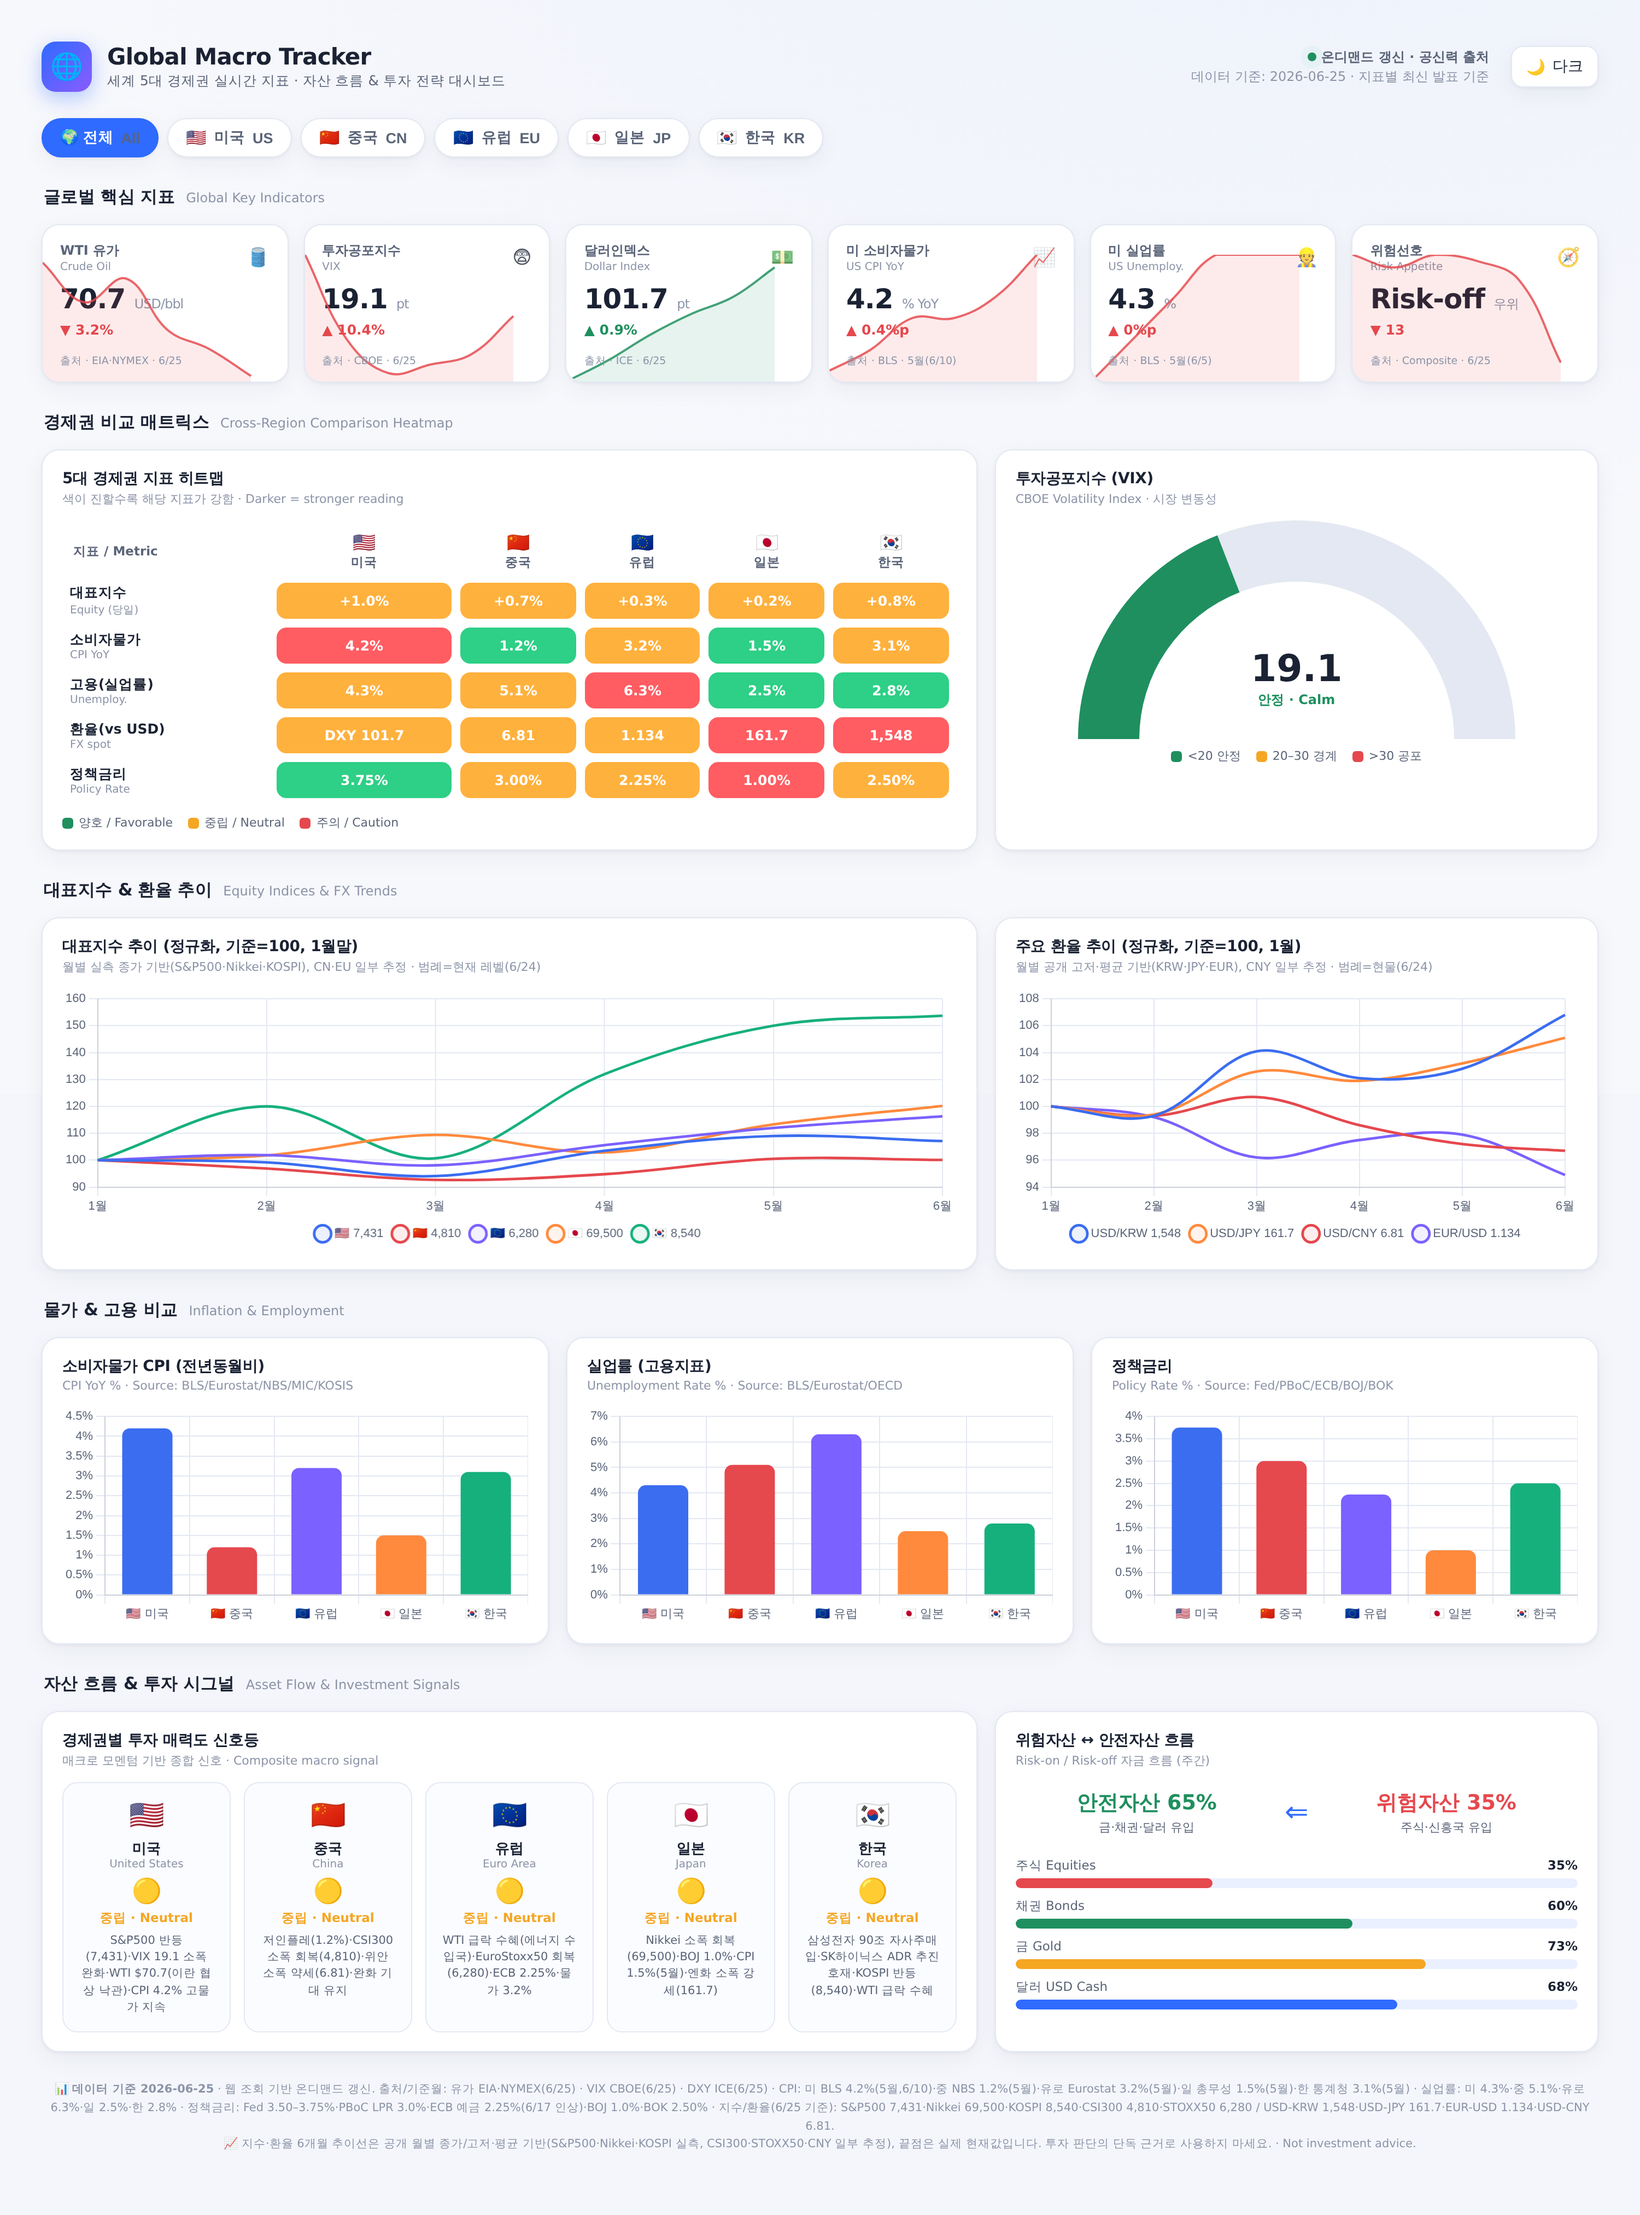
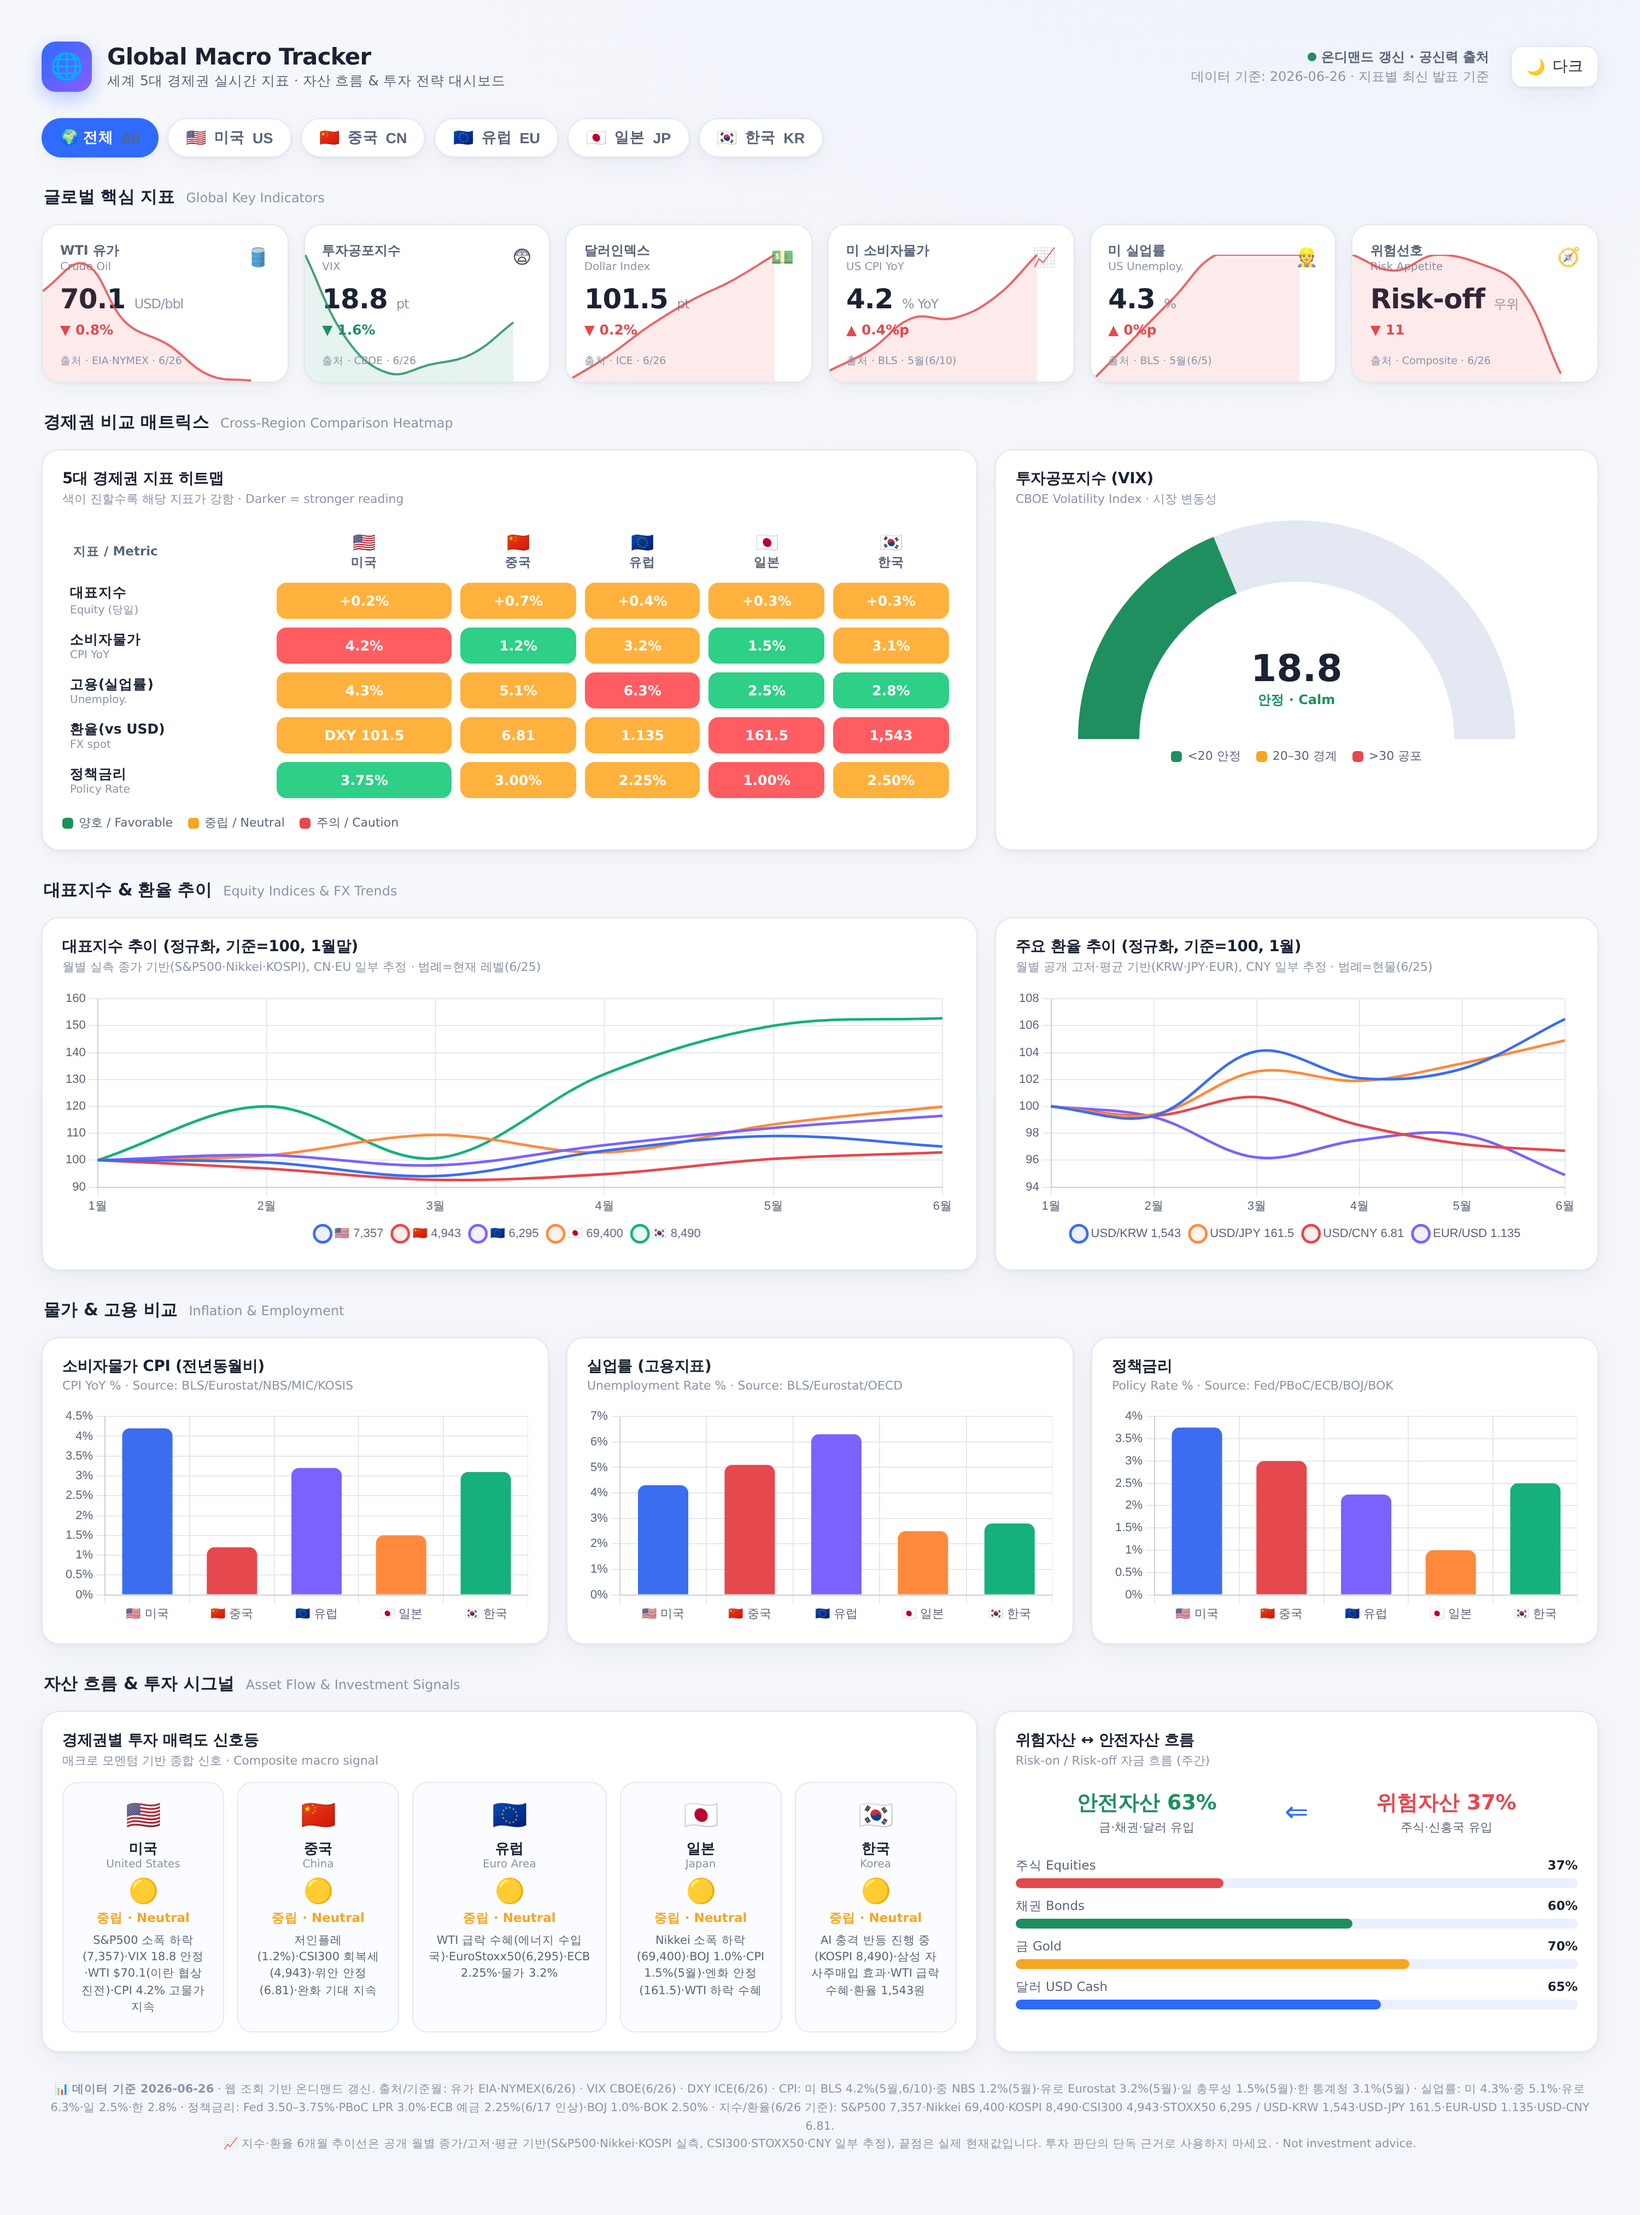
dashboard: 2026-06-26 데이터 갱신 및 이미지 재렌더링
- WTI $70.1(-0.8%), VIX 18.8(-1.6%), DXY 101.5(-0.2%)
- S&P500 7,357 / Nikkei 69,400 / KOSPI 8,490 / CSI300 4,943 / STOXX50 6,295
- USD/KRW 1,543 · USD/JPY 161.5 · EUR/USD 1.135 · USD/CNY 6.81
- 이란 협상 진전으로 WTI 지속 하락, Mag7 가격인상 우려로 S&P 소폭 약세
- 콘솔 에러 0 확인 후 mockup-dark/light.png 재산출

Claude-Session: https://claude.ai/code/session_01TfGNGWpgkPWsRGVKtzUyAZ

diff --git a/index.html b/index.html
@@ -213,7 +213,7 @@
     <div class="spacer"></div>
     <div class="updated">
       <div><span class="live-dot"></span><b>온디맨드 갱신 · 공신력 출처</b></div>
-      <div id="updated-time">데이터 기준: 2026-06-25 · 지표별 최신 발표 기준</div>
+      <div id="updated-time">데이터 기준: 2026-06-26 · 지표별 최신 발표 기준</div>
     </div>
     <button class="theme-toggle" id="themeBtn">🌙 <span id="themeLabel">다크</span></button>
   </header>
@@ -274,12 +274,12 @@
   <div class="grid g-2">
     <div class="card">
       <h3>대표지수 추이 (정규화, 기준=100, 1월말)</h3>
-      <div class="h-en">월별 실측 종가 기반(S&amp;P500·Nikkei·KOSPI), CN·EU 일부 추정 · 범례=현재 레벨(6/24)</div>
+      <div class="h-en">월별 실측 종가 기반(S&amp;P500·Nikkei·KOSPI), CN·EU 일부 추정 · 범례=현재 레벨(6/25)</div>
       <div class="canvas-box"><canvas id="idxChart"></canvas></div>
     </div>
     <div class="card">
       <h3>주요 환율 추이 (정규화, 기준=100, 1월)</h3>
-      <div class="h-en">월별 공개 고저·평균 기반(KRW·JPY·EUR), CNY 일부 추정 · 범례=현물(6/24)</div>
+      <div class="h-en">월별 공개 고저·평균 기반(KRW·JPY·EUR), CNY 일부 추정 · 범례=현물(6/25)</div>
       <div class="canvas-box"><canvas id="fxChart"></canvas></div>
     </div>
   </div>
@@ -329,12 +329,12 @@
   </div>
 
   <div class="footnote">
-    📊 <b>데이터 기준 2026-06-25</b> · 웹 조회 기반 온디맨드 갱신. 출처/기준월:
-    유가 EIA·NYMEX(6/25) · VIX CBOE(6/25) · DXY ICE(6/25) ·
+    📊 <b>데이터 기준 2026-06-26</b> · 웹 조회 기반 온디맨드 갱신. 출처/기준월:
+    유가 EIA·NYMEX(6/26) · VIX CBOE(6/26) · DXY ICE(6/26) ·
     CPI: 미 BLS 4.2%(5월,6/10)·중 NBS 1.2%(5월)·유로 Eurostat 3.2%(5월)·일 총무성 1.5%(5월)·한 통계청 3.1%(5월) ·
     실업률: 미 4.3%·중 5.1%·유로 6.3%·일 2.5%·한 2.8% ·
     정책금리: Fed 3.50–3.75%·PBoC LPR 3.0%·ECB 예금 2.25%(6/17 인상)·BOJ 1.0%·BOK 2.50% ·
-    지수/환율(6/25 기준): S&amp;P500 7,431·Nikkei 69,500·KOSPI 8,540·CSI300 4,810·STOXX50 6,280 / USD-KRW 1,548·USD-JPY 161.7·EUR-USD 1.134·USD-CNY 6.81.<br/>
+    지수/환율(6/26 기준): S&amp;P500 7,357·Nikkei 69,400·KOSPI 8,490·CSI300 4,943·STOXX50 6,295 / USD-KRW 1,543·USD-JPY 161.5·EUR-USD 1.135·USD-CNY 6.81.<br/>
     📈 지수·환율 6개월 추이선은 공개 월별 종가/고저·평균 기반(S&amp;P500·Nikkei·KOSPI 실측, CSI300·STOXX50·CNY 일부 추정), 끝점은 실제 현재값입니다. 투자 판단의 단독 근거로 사용하지 마세요. · Not investment advice.
   </div>
 </div>
@@ -356,52 +356,52 @@ const REGIONS = {
 };
 
 const DATA = {
-  // 글로벌 KPI 카드 — 2026-06-25 공신력 출처 실측치
+  // 글로벌 KPI 카드 — 2026-06-26 공신력 출처 실측치
   kpi: [
-    { id:'wti',  label:'WTI 유가',     en:'Crude Oil',     icon:'🛢', val:'70.7', unit:'USD/bbl', chg:-3.2, src:'EIA·NYMEX · 6/25',
-      spark:[85,80,83,76.5,74.1,70.7] },
-    { id:'vix',  label:'투자공포지수',  en:'VIX',           icon:'😨', val:'19.1', unit:'pt', chg:+10.4, src:'CBOE · 6/25', invert:true,
-      spark:[22,18,16.4,16.8,17.3,19.1] },
-    { id:'dxy',  label:'달러인덱스',    en:'Dollar Index',  icon:'💵', val:'101.7',unit:'pt', chg:+0.9, src:'ICE · 6/25',
-      spark:[99,99.5,100.1,100.6,101.0,101.7] },
+    { id:'wti',  label:'WTI 유가',     en:'Crude Oil',     icon:'🛢', val:'70.1', unit:'USD/bbl', chg:-0.8, src:'EIA·NYMEX · 6/26',
+      spark:[80,83,76.5,74.1,70.7,70.1] },
+    { id:'vix',  label:'투자공포지수',  en:'VIX',           icon:'😨', val:'18.8', unit:'pt', chg:-1.6, src:'CBOE · 6/26', invert:true,
+      spark:[22,18,16.4,16.8,17.3,18.8] },
+    { id:'dxy',  label:'달러인덱스',    en:'Dollar Index',  icon:'💵', val:'101.5',unit:'pt', chg:-0.2, src:'ICE · 6/26',
+      spark:[99,99.5,100.1,100.6,101.0,101.5] },
     { id:'cpi',  label:'미 소비자물가', en:'US CPI YoY',    icon:'📈', val:'4.2', unit:'% YoY', chg:+0.4, src:'BLS · 5월(6/10)', invert:true,
       spark:[3.1,3.3,3.6,3.6,3.8,4.2] },
     { id:'emp',  label:'미 실업률',     en:'US Unemploy.',  icon:'👷', val:'4.3', unit:'%', chg:0.0, src:'BLS · 5월(6/5)', invert:true,
       spark:[4.0,4.1,4.2,4.3,4.3,4.3] },
-    { id:'risk', label:'위험선호',      en:'Risk Appetite', icon:'🧭', val:'Risk-off',unit:'우위', chg:-13.0, src:'Composite · 6/25',
-      spark:[50,48,50,49,46,33] },
+    { id:'risk', label:'위험선호',      en:'Risk Appetite', icon:'🧭', val:'Risk-off',unit:'우위', chg:-11.0, src:'Composite · 6/26',
+      spark:[50,48,50,49,46,35] },
   ],
   // 히트맵: 지표 × 경제권. score 0~100(높을수록 강/양호), d=표시값(실측)
   matrix: [
     { metric:'대표지수', en:'Equity (당일)', fmt:'%',
-      cells:{ US:{d:'+1.0%',s:57}, CN:{d:'+0.7%',s:53}, EU:{d:'+0.3%',s:51}, JP:{d:'+0.2%',s:50}, KR:{d:'+0.8%',s:55} } },
+      cells:{ US:{d:'+0.2%',s:51}, CN:{d:'+0.7%',s:53}, EU:{d:'+0.4%',s:52}, JP:{d:'+0.3%',s:51}, KR:{d:'+0.3%',s:51} } },
     { metric:'소비자물가', en:'CPI YoY', fmt:'',
       cells:{ US:{d:'4.2%',s:35}, CN:{d:'1.2%',s:85}, EU:{d:'3.2%',s:50}, JP:{d:'1.5%',s:78}, KR:{d:'3.1%',s:52} } },
     { metric:'고용(실업률)', en:'Unemploy.', fmt:'',
       cells:{ US:{d:'4.3%',s:68}, CN:{d:'5.1%',s:55}, EU:{d:'6.3%',s:45}, JP:{d:'2.5%',s:92}, KR:{d:'2.8%',s:88} } },
     { metric:'환율(vs USD)', en:'FX spot', fmt:'',
-      cells:{ US:{d:'DXY 101.7',s:55}, CN:{d:'6.81',s:63}, EU:{d:'1.134',s:68}, JP:{d:'161.7',s:31}, KR:{d:'1,548',s:37} } },
+      cells:{ US:{d:'DXY 101.5',s:55}, CN:{d:'6.81',s:63}, EU:{d:'1.135',s:68}, JP:{d:'161.5',s:31}, KR:{d:'1,543',s:38} } },
     { metric:'정책금리', en:'Policy Rate', fmt:'',
       cells:{ US:{d:'3.75%',s:70}, CN:{d:'3.00%',s:62}, EU:{d:'2.25%',s:56}, JP:{d:'1.00%',s:40}, KR:{d:'2.50%',s:58} } },
   ],
   // 대표지수: 월별 실측 종가 기반 정규화(기준=100, 1월말). 끝값 라벨=실제 현재 레벨(6/25)
-  // 6/24 삼성전자 90조 자사주매입·SK하이닉스 ADR 추진 → KOSPI +3.26% 반등, 이란 협상 낙관 → WTI 급락
+  // 6/25 Mag7 가격인상 우려(Apple·MS)→S&P500 소폭 하락(7,357), Nikkei 약세·KOSPI 반등 지속·이란 협상 진전→WTI 하락
   indices: {
     labels: MONTHS,
-    levels: { US:'7,431', CN:'4,810', EU:'6,280', JP:'69,500', KR:'8,540' },
+    levels: { US:'7,357', CN:'4,943', EU:'6,295', JP:'69,400', KR:'8,490' },
     series: {
-      US:[100,99.2,94.1,103.5,109.0,107.1], CN:[100,96.9,92.7,94.8,100.5,100.1],
-      EU:[100,101.9,98.1,105.6,112.0,116.3], JP:[100,101.8,109.4,102.9,113.3,120.2],
-      KR:[100,120.0,100.7,132.0,150.0,153.7],
+      US:[100,99.2,94.1,103.5,109.0,105.1], CN:[100,96.9,92.7,94.8,100.5,102.9],
+      EU:[100,101.9,98.1,105.6,112.0,116.5], JP:[100,101.8,109.4,102.9,113.3,119.9],
+      KR:[100,120.0,100.7,132.0,150.0,152.8],
     }
   },
   // 환율: 월별 정규화(기준=100, 1월). 끝값 라벨=실제 현물(6/25)
-  // KRW·JPY·EUR 공개 고저/평균 기반, CNY 일부 추정. 달러 강세 지속·EUR/USD 하락
+  // KRW·JPY·EUR 공개 고저/평균 기반, CNY 일부 추정. DXY 소폭 하락·USD/KRW 원화 강세(1,543)
   fx: {
     labels: MONTHS,
-    levels: { 'USD/KRW':'1,548', 'USD/JPY':'161.7', 'USD/CNY':'6.81', 'EUR/USD':'1.134' },
+    levels: { 'USD/KRW':'1,543', 'USD/JPY':'161.5', 'USD/CNY':'6.81', 'EUR/USD':'1.135' },
     series: {
-      'USD/KRW':[100,99.3,104.1,102.1,102.8,106.8], 'USD/JPY':[100,99.4,102.6,101.9,103.2,105.1],
+      'USD/KRW':[100,99.3,104.1,102.1,102.8,106.5], 'USD/JPY':[100,99.4,102.6,101.9,103.2,104.9],
       'USD/CNY':[100,99.3,100.7,98.6,97.2,96.7], 'EUR/USD':[100,99.2,96.2,97.5,97.9,94.9],
     }
   },
@@ -411,19 +411,19 @@ const DATA = {
   emp: { US:4.3, CN:5.1, EU:6.3, JP:2.5, KR:2.8 },
   // 정책금리 실측
   rate:{ US:3.75, CN:3.00, EU:2.25, JP:1.00, KR:2.50 },
-  vix: 19.1,
+  vix: 18.8,
   // 투자 시그널 신호등 — 데이터 기반 종합 판단
   signals: {
-    US:{ light:'🟡', verdict:'중립',     vEn:'Neutral',    note:'S&P500 반등(7,431)·VIX 19.1 소폭 완화·WTI $70.7(이란 협상 낙관)·CPI 4.2% 고물가 지속' },
-    CN:{ light:'🟡', verdict:'중립',     vEn:'Neutral',    note:'저인플레(1.2%)·CSI300 소폭 회복(4,810)·위안 소폭 약세(6.81)·완화 기대 유지' },
-    EU:{ light:'🟡', verdict:'중립',     vEn:'Neutral',    note:'WTI 급락 수혜(에너지 수입국)·EuroStoxx50 회복(6,280)·ECB 2.25%·물가 3.2%' },
-    JP:{ light:'🟡', verdict:'중립',     vEn:'Neutral',    note:'Nikkei 소폭 회복(69,500)·BOJ 1.0%·CPI 1.5%(5월)·엔화 소폭 강세(161.7)' },
-    KR:{ light:'🟡', verdict:'중립',     vEn:'Neutral',    note:'삼성전자 90조 자사주매입·SK하이닉스 ADR 추진 호재·KOSPI 반등(8,540)·WTI 급락 수혜' },
+    US:{ light:'🟡', verdict:'중립',     vEn:'Neutral',    note:'S&P500 소폭 하락(7,357)·VIX 18.8 안정·WTI $70.1(이란 협상 진전)·CPI 4.2% 고물가 지속' },
+    CN:{ light:'🟡', verdict:'중립',     vEn:'Neutral',    note:'저인플레(1.2%)·CSI300 회복세(4,943)·위안 안정(6.81)·완화 기대 지속' },
+    EU:{ light:'🟡', verdict:'중립',     vEn:'Neutral',    note:'WTI 급락 수혜(에너지 수입국)·EuroStoxx50(6,295)·ECB 2.25%·물가 3.2%' },
+    JP:{ light:'🟡', verdict:'중립',     vEn:'Neutral',    note:'Nikkei 소폭 하락(69,400)·BOJ 1.0%·CPI 1.5%(5월)·엔화 안정(161.5)·WTI 하락 수혜' },
+    KR:{ light:'🟡', verdict:'중립',     vEn:'Neutral',    note:'AI 충격 반등 진행 중(KOSPI 8,490)·삼성 자사주매입 효과·WTI 급락 수혜·환율 1,543원' },
   },
   // 자산 흐름 (% 자금흐름 강도) — 이란 협상 진전·WTI 급락으로 위험선호 소폭 개선
-  flow: { riskOn: 35, riskOff: 65,
-    bars:[ {k:'주식 Equities', v:35, c:'var(--up)'}, {k:'채권 Bonds', v:60, c:'var(--down)'},
-           {k:'금 Gold', v:73, c:'var(--warn)'}, {k:'달러 USD Cash', v:68, c:'var(--accent)'} ] }
+  flow: { riskOn: 37, riskOff: 63,
+    bars:[ {k:'주식 Equities', v:37, c:'var(--up)'}, {k:'채권 Bonds', v:60, c:'var(--down)'},
+           {k:'금 Gold', v:70, c:'var(--warn)'}, {k:'달러 USD Cash', v:65, c:'var(--accent)'} ] }
 };
 
 /* ===================== THEME ===================== */
